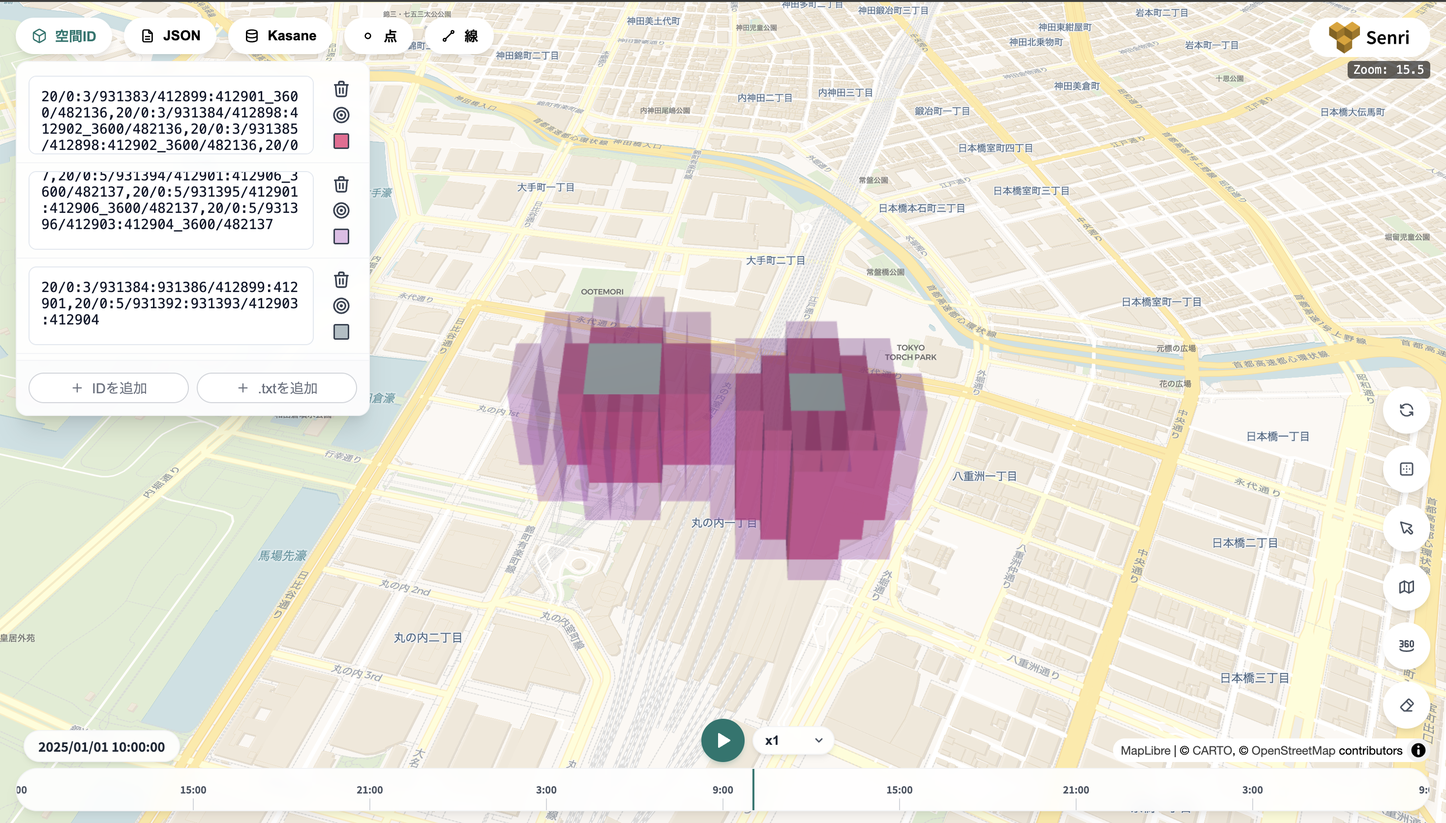
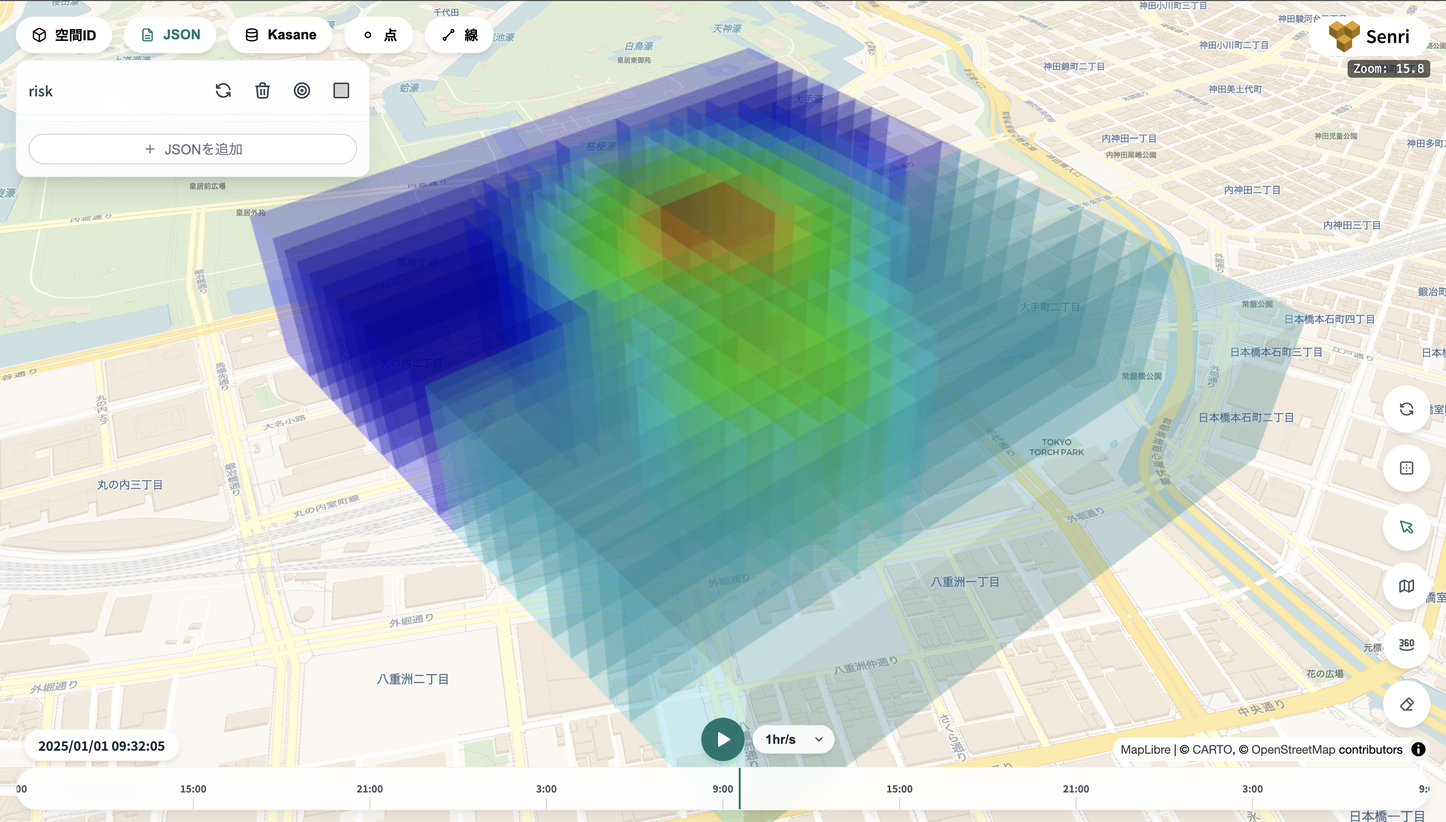
chore: JSONで出力するように調整

diff --git a/src/tutorial/steps/map/1-buildings/3-insert.ts b/src/tutorial/steps/map/1-buildings/3-insert.ts
@@ -3,18 +3,19 @@ import { RangeId, SingleId } from "@airbee-project/kasane-client";
 import type { Tutorial } from "../../../runner";
 
 export default async function ({ db }: Tutorial) {
-  const buildingA = RangeId.create(20, [0, 3], [931384, 931386], [412899, 412901]);
-  const buildingB = RangeId.create(20, [0, 5], [931392, 931393], [412903, 412904]);
+  const shoppingMall = RangeId.create(20, [0, 5], [931384, 931386], [412899, 412901]);
+  const warehouse = RangeId.create(20, [0, 5], [931392, 931393], [412903, 412904]);
 // @hide-end
-  // 2 つのビルに、危険度 100 をまとめて書き込む
+  // ショッピングモールに 100、倉庫に 70 を書き込む
   const buildings = db.table("buildings");
-  await buildings.insert(100, [buildingA, buildingB]);
+  await buildings.insert(100, shoppingMall);
+  await buildings.insert(70, warehouse);
 
-  // ビルA の中・ビルB の中・ビルの外の 1 ボクセルずつを検索する
-  const insideA = SingleId.create(20, 0, 931385, 412900);
-  const insideB = SingleId.create(20, 0, 931392, 412903);
+  // ショッピングモールの中・倉庫の中・建物の外の 1 ボクセルずつを検索する
+  const insideMall = SingleId.create(20, 0, 931385, 412900);
+  const insideWarehouse = SingleId.create(20, 0, 931392, 412903);
   const outside = SingleId.create(20, 0, 931389, 412900);
-  for (const id of [insideA, insideB, outside]) {
+  for (const id of [insideMall, insideWarehouse, outside]) {
     const [result] = await buildings.search(id).toArray();
     console.log(`${id} =>`, result ? `${result.value}` : "値なし");
   }

diff --git a/src/tutorial/steps/map/4-merge/2-json.ts b/src/tutorial/steps/map/4-merge/2-json.ts
@@ -1,0 +1,39 @@
+// @hide-start
+import { RangeId, query } from "@airbee-project/kasane-client";
+import type { Tutorial } from "../../../runner";
+
+export default async function ({ client }: Tutorial) {
+  const buildingRisk = query
+    .source("tutorial", "buildings")
+    .falloffX(20, 8, { pattern: "linear", policy: "max" })
+    .falloffY(20, 8, { pattern: "linear", policy: "max" });
+  const h = Math.floor(Date.UTC(2025, 0, 1, 0) / 1000 / 3600);
+  const danger = buildingRisk.merge(query.source("tutorial", "rain"), { policy: "max", defaultValue: 0 });
+// @hide-end
+  // 町全体を、0 時台から 1 時台まで検索する
+  const town = RangeId.create(20, [0, 5], [931375, 931402], [412890, 412913]);
+  const results = await client.query(danger, town.withTime(3600, [h, h + 1])).toArray();
+
+  // 結果を、Senri が読み込める JSON に変換する
+  const values = [...new Set(results.map((r) => Number(r.value)))];
+  const json = {
+    meta: { version: "1.0", description: "町の危険度マップ" },
+    data: [
+      {
+        name: "risk",
+        value: values,
+        ids: results.map((r) => {
+          const id = r.id as RangeId; // 結果の形式は既定の RangeId
+          return {
+            z: id.z, f: id.f, x: id.x, y: id.y,
+            i: id.interval.seconds(), t: id.t,
+            ref: values.indexOf(Number(r.value)),
+          };
+        }),
+      },
+    ],
+  };
+  console.log(JSON.stringify(json));
+// @hide-start
+}
+// @hide-end

diff --git a/src/tutorial/steps/map/2-falloff/3-falloff-y.ts b/src/tutorial/steps/map/2-falloff/3-falloff-y.ts
@@ -4,16 +4,16 @@ import type { Tutorial } from "../../../runner";
 
 export default async function ({ client }: Tutorial) {
   const buildings = query.source("tutorial", "buildings");
-  const spreadX = buildings.falloffX(20, 4, { pattern: "linear", policy: "max" });
+  const spreadX = buildings.falloffX(20, 8, { pattern: "linear", policy: "max" });
 // @hide-end
   // 手順 2 のクエリに、南北（Y）方向の falloff を足す
-  const buildingRisk = spreadX.falloffY(20, 4, { pattern: "linear", policy: "max" });
+  const buildingRisk = spreadX.falloffY(20, 8, { pattern: "linear", policy: "max" });
 
-  // ビルA の東の端から、東へ 1 ボクセルずつ離れた場所を見る
-  for (let dx = 0; dx <= 4; dx++) {
+  // ショッピングモールの東の端から、東へ 1 ボクセルずつ離れた場所を見る
+  for (let dx = 0; dx <= 6; dx++) {
     const place = SingleId.create(20, 0, 931386 + dx, 412900);
     const [result] = await client.query(buildingRisk, place).toArray();
-    console.log(`ビルA から ${dx} ボクセル =>`, result ? `${result.value}` : "値なし");
+    console.log(`ショッピングモールから ${dx} ボクセル =>`, result ? `${result.value}` : "値なし");
   }
 // @hide-start
 }

diff --git a/src/tutorial/steps/map/2-falloff/2-falloff-x.ts b/src/tutorial/steps/map/2-falloff/2-falloff-x.ts
@@ -5,14 +5,14 @@ import type { Tutorial } from "../../../runner";
 export default async function ({ client }: Tutorial) {
   const buildings = query.source("tutorial", "buildings");
 // @hide-end
-  // 手順 1 のクエリに、東西（X）方向の falloff を足す（4 ボクセルかけて減らしながら広げる）
-  const spreadX = buildings.falloffX(20, 4, { pattern: "linear", policy: "max" });
+  // 手順 1 のクエリに、東西（X）方向の falloff を足す（8 ボクセルかけて減らしながら広げる）
+  const spreadX = buildings.falloffX(20, 8, { pattern: "linear", policy: "max" });
 
-  // ビルA の東の端から、東へ 1 ボクセルずつ離れた場所を見る
+  // ショッピングモールの東の端から、東へ 1 ボクセルずつ離れた場所を見る
   for (let dx = 0; dx <= 3; dx++) {
     const place = SingleId.create(20, 0, 931386 + dx, 412900);
     const [result] = await client.query(spreadX, place).toArray();
-    console.log(`ビルA から ${dx} ボクセル =>`, result ? `${result.value}` : "値なし");
+    console.log(`ショッピングモールから ${dx} ボクセル =>`, result ? `${result.value}` : "値なし");
   }
 // @hide-start
 }

diff --git a/src/tutorial/steps/map/1-buildings/2-range.ts b/src/tutorial/steps/map/1-buildings/2-range.ts
@@ -4,12 +4,12 @@ import type { Tutorial } from "../../../runner";
 
 export default async function (_: Tutorial) {
 // @hide-end
-  // 2 つのビルを、直方体の RangeId で表す
-  const buildingA = RangeId.create(20, [0, 3], [931384, 931386], [412899, 412901]);
-  const buildingB = RangeId.create(20, [0, 5], [931392, 931393], [412903, 412904]);
+  // ショッピングモールと倉庫を、直方体の RangeId で表す
+  const shoppingMall = RangeId.create(20, [0, 5], [931384, 931386], [412899, 412901]);
+  const warehouse = RangeId.create(20, [0, 5], [931392, 931393], [412903, 412904]);
 
-  console.log("ビルA:", buildingA.toString());
-  console.log("ビルB:", buildingB.toString());
+  console.log("ショッピングモール:", shoppingMall.toString());
+  console.log("倉庫:", warehouse.toString());
 // @hide-start
 }
 // @hide-end

diff --git a/src/tutorial/steps/map/2-falloff/1-source.ts b/src/tutorial/steps/map/2-falloff/1-source.ts
@@ -7,11 +7,11 @@ export default async function ({ client }: Tutorial) {
   // 建物のテーブルをもとに、クエリを作る（まだ計算はしない）
   const buildings = query.source("tutorial", "buildings");
 
-  // ビルA の東の端から、東へ 1 ボクセルずつ離れた場所を見る
+  // ショッピングモールの東の端から、東へ 1 ボクセルずつ離れた場所を見る
   for (let dx = 0; dx <= 2; dx++) {
     const place = SingleId.create(20, 0, 931386 + dx, 412900);
     const [result] = await client.query(buildings, place).toArray();
-    console.log(`ビルA から ${dx} ボクセル =>`, result ? `${result.value}` : "値なし");
+    console.log(`ショッピングモールから ${dx} ボクセル =>`, result ? `${result.value}` : "値なし");
   }
 // @hide-start
 }

diff --git a/src/tutorial/steps/map/4-merge/1-merge.ts b/src/tutorial/steps/map/4-merge/1-merge.ts
@@ -1,0 +1,17 @@
+// @hide-start
+import { query } from "@airbee-project/kasane-client";
+import type { Tutorial } from "../../../runner";
+
+export default async function (_: Tutorial) {
+  const buildingRisk = query
+    .source("tutorial", "buildings")
+    .falloffX(20, 8, { pattern: "linear", policy: "max" })
+    .falloffY(20, 8, { pattern: "linear", policy: "max" });
+// @hide-end
+  // 建物の危険度と雨の強さを重ね合わせ、同じ場所では大きい方を取る
+  // （建物の危険度が無い場所は 0 として扱う）
+  const danger = buildingRisk.merge(query.source("tutorial", "rain"), { policy: "max", defaultValue: 0 });
+// @hide-start
+  void danger;
+}
+// @hide-end

diff --git a/src/tutorial/steps/map/3-rain/3-hour0.ts b/src/tutorial/steps/map/3-rain/3-hour0.ts
@@ -7,8 +7,8 @@ export default async function ({ db }: Tutorial) {
   const h = Math.floor(Date.UTC(2025, 0, 1, 0) / 1000 / 3600);
 // @hide-end
   // 0 時台：町全体に小雨（10）を書き込み、東側だけ雨（30）で上書きする
-  const town = RangeId.create(20, [0, 7], [931375, 931402], [412890, 412913]);
-  const east = RangeId.create(20, [0, 7], [931388, 931402], [412890, 412913]);
+  const town = RangeId.create(20, [0, 5], [931375, 931402], [412890, 412913]);
+  const east = RangeId.create(20, [0, 5], [931388, 931402], [412890, 412913]);
   await rain.insert(10, town.withTime(3600, h));
   await rain.insert(30, east.withTime(3600, h));
 

diff --git a/src/tutorial/steps/map/3-rain/4-hour1.ts b/src/tutorial/steps/map/3-rain/4-hour1.ts
@@ -5,7 +5,7 @@ import type { Tutorial } from "../../../runner";
 export default async function ({ db }: Tutorial) {
   const rain = db.table("rain");
   const h = Math.floor(Date.UTC(2025, 0, 1, 0) / 1000 / 3600);
-  const town = RangeId.create(20, [0, 7], [931375, 931402], [412890, 412913]);
+  const town = RangeId.create(20, [0, 5], [931375, 931402], [412890, 412913]);
   const westPoint = SingleId.create(20, 0, 931382, 412900);
   const eastPoint = SingleId.create(20, 0, 931388, 412900);
 // @hide-end
